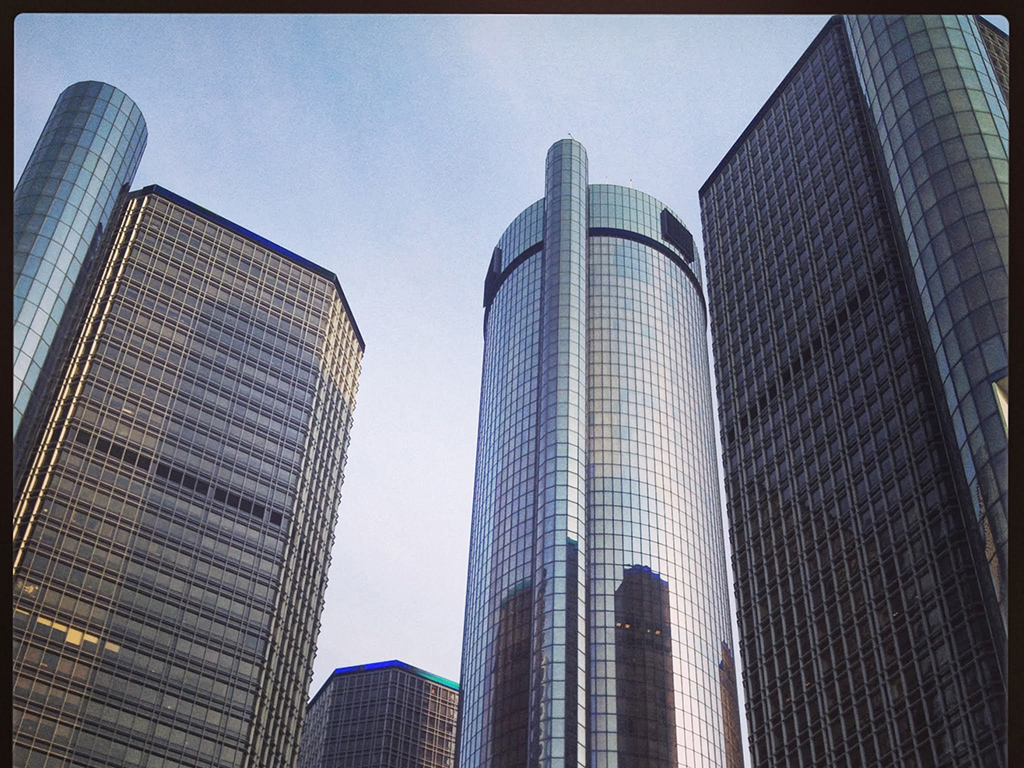
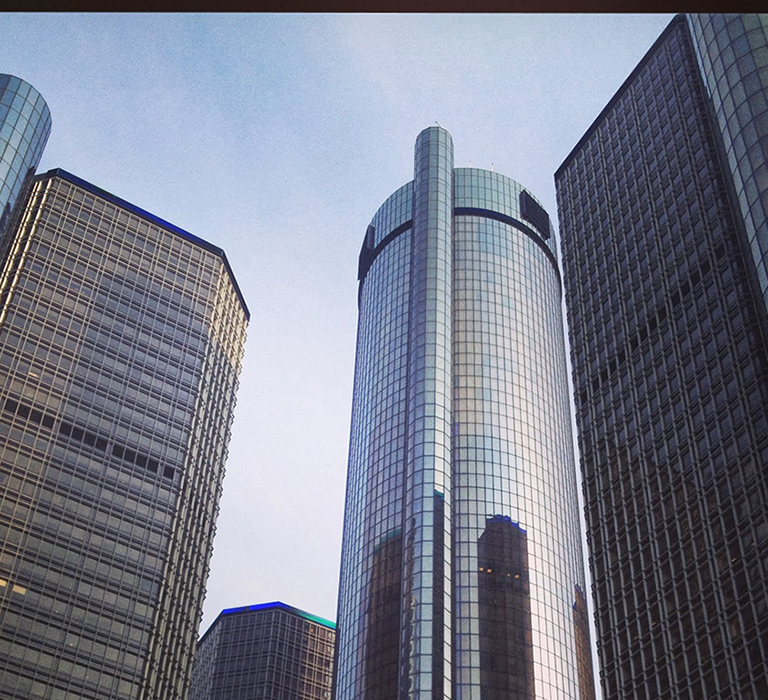
more image testing

diff --git a/index.html b/index.html
@@ -42,6 +42,7 @@
       <img src="img/rencen-reduced.jpg">
       <img src="img/rencen.jpg">
       <img src="img/fall.jpg">
+      <img src="img/fall-reduced.jpg">
       <img src="img/tiy2.jpg">
       <img src="img/sunset2.jpg">
       <img src="img/sunset-reduced.jpg">

diff --git a/css/main.css b/css/main.css
@@ -263,7 +263,7 @@ header {
 
 /* ========================== Slide 2 =========================== */
 #slide-2 .bcg {
-  background-image:url('../img/fall.jpg')
+  background-image:url('../img/fall-reduced.jpg')
 }
 #slide-2 .hsContent {
   /*margin-left: -450px;*/
